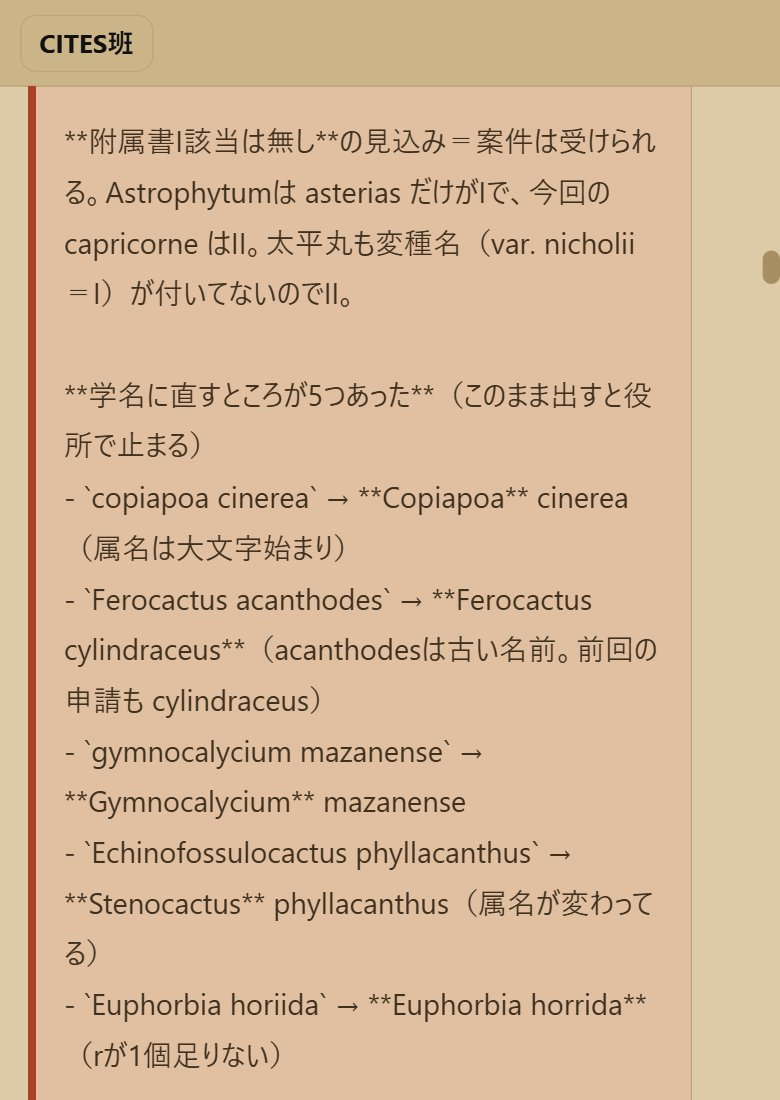
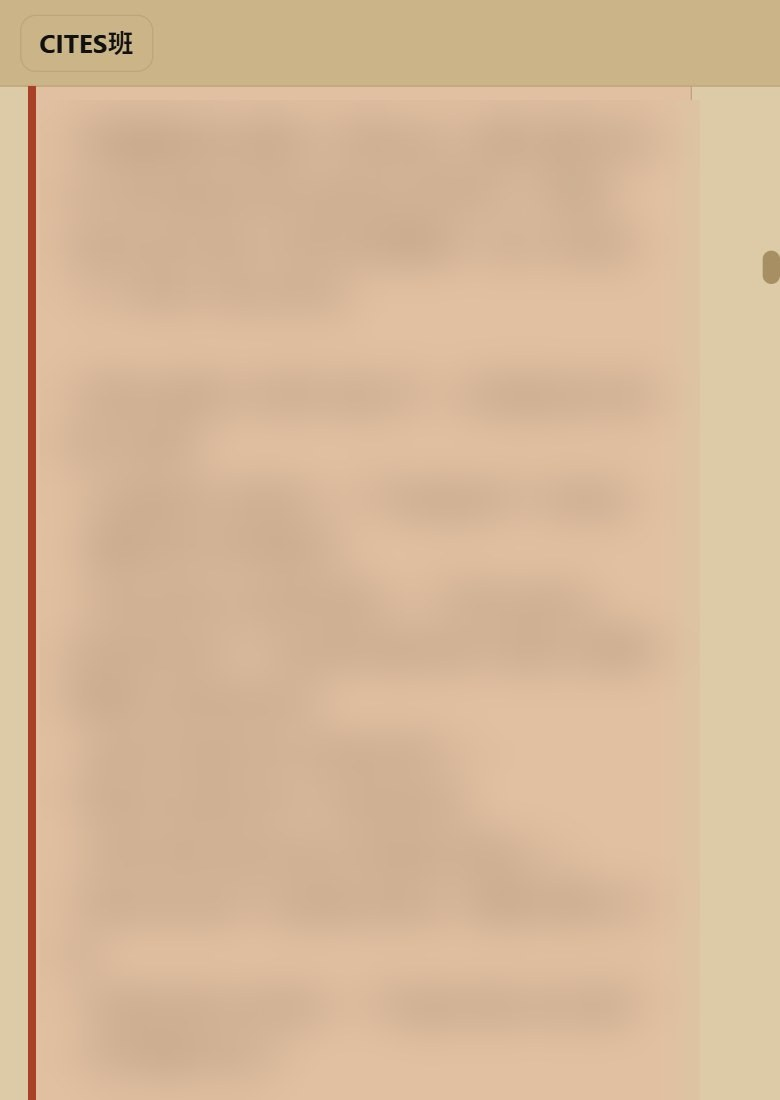
事例の画面と書類のぼかしを強め、販売先・品目・お客様の国の名前を消す

diff --git a/index.html b/index.html
@@ -379,18 +379,18 @@ footer{padding-bottom:64px}
 <div class="case rev">
 <div class="vis">
 <div class="stack s2">
-<img class="p-permit" src="img/real_permit.jpg" alt="実際に取ったワシントン条約の輸出許可書（サボテン）" loading="lazy" width="900" height="1200">
+<img class="p-permit" src="img/real_permit.jpg" alt="実際に取ったワシントン条約の輸出許可書" loading="lazy" width="900" height="1200">
 <img class="p-cites top" src="img/ai_cites.jpg" alt="AIの作業画面：条約の区分の判定と、学名5つの直し" loading="lazy" width="780" height="1100">
 </div>
-<p class="cap">実際の許可書と、AIの作業画面（名前・番号はぼかしています）</p>
+<p class="cap">実際の許可書と、AIの作業画面（中身はぼかしています）</p>
 </div>
 <div class="txt">
 <p class="no">Case 02</p>
 <h3>海外のお客様<br>専用の窓</h3>
-<p>お客様は韓国語、こちらは日本語のまま。AIが訳して届け、サボテンの輸出の書類も同じ画面で進めて、国の許可が下りました。</p>
+<p>お客様は外国語、こちらは日本語のまま。AIが訳して届け、輸出の書類も同じ画面で進めて、国の許可が下りました。</p>
 <div class="roles">
 <div class="role hito"><h4>人がやること</h4><ul><li>植物を買う・費用を立て替える</li><li>役所への提出と受け取り（お客様ご本人）</li></ul></div>
-<div class="role ai"><h4>AIがやること</h4><ul><li>韓国語と日本語の通訳（お客様との専用の窓）</li><li>輸出できる種類か、学名と条約の区分で判定</li><li>申請書類13点を作り、数と学名を検算</li><li>許可が出る日から逆算して、日程を組む</li></ul></div>
+<div class="role ai"><h4>AIがやること</h4><ul><li>外国語と日本語の通訳（お客様との専用の窓）</li><li>輸出できる種類か、学名と条約の区分で判定</li><li>申請書類13点を作り、数と学名を検算</li><li>許可が出る日から逆算して、日程を組む</li></ul></div>
 </div>
 </div>
 </div>
@@ -400,15 +400,15 @@ footer{padding-bottom:64px}
 <div class="stack s3">
 <img class="p-k1" src="img/kacchu1.jpg" alt="甲冑の写真（上半身）" loading="lazy" width="600" height="800">
 <img class="p-k2" src="img/kacchu2.jpg" alt="甲冑の写真（全身）" loading="lazy" width="600" height="800">
-<img class="p-cw top" src="img/real_catawiki.jpg" alt="実際の出品画面（Catawiki）" loading="lazy" width="1260" height="447">
+<img class="p-cw top" src="img/real_catawiki.jpg" alt="実際の出品画面" loading="lazy" width="1260" height="447">
 <img class="p-profit top" src="img/ai_profit.jpg" alt="AIの作業画面：手数料と両替を入れた損益分岐の計算" loading="lazy" width="780" height="1095">
 </div>
-<p class="cap">自分で撮った写真、実際の出品画面、AIの作業画面（番号と金額はぼかしています）</p>
+<p class="cap">自分で撮った写真、実際の出品画面、AIの作業画面（中身はぼかしています）</p>
 </div>
 <div class="txt">
 <p class="no">Case 03</p>
 <h3>甲冑を、<br>海外のオークションへ</h3>
-<p>撮影、英語の説明文、発送までAIと進め、ヨーロッパの美術品オークションで落札されました。</p>
+<p>撮影、英語の説明文、発送までAIと進め、海外のオークションで落札されました。</p>
 <div class="roles">
 <div class="role hito"><h4>人がやること</h4><ul><li>仕入れを決める・甲冑を撮影する</li><li>最低価格を決める・荷物を渡す</li></ul></div>
 <div class="role ai"><h4>AIがやること</h4><ul><li>海外の落札例を集めて、相場を出す</li><li>英語の説明文を書き、出品の欄を埋める</li><li>手数料・送料・両替まで入れて、利益を計算</li><li>発送の手配、追跡番号の登録、買い手への英語の連絡</li><li>入金を確かめて、売り買いの記録帳に付ける</li></ul></div>
